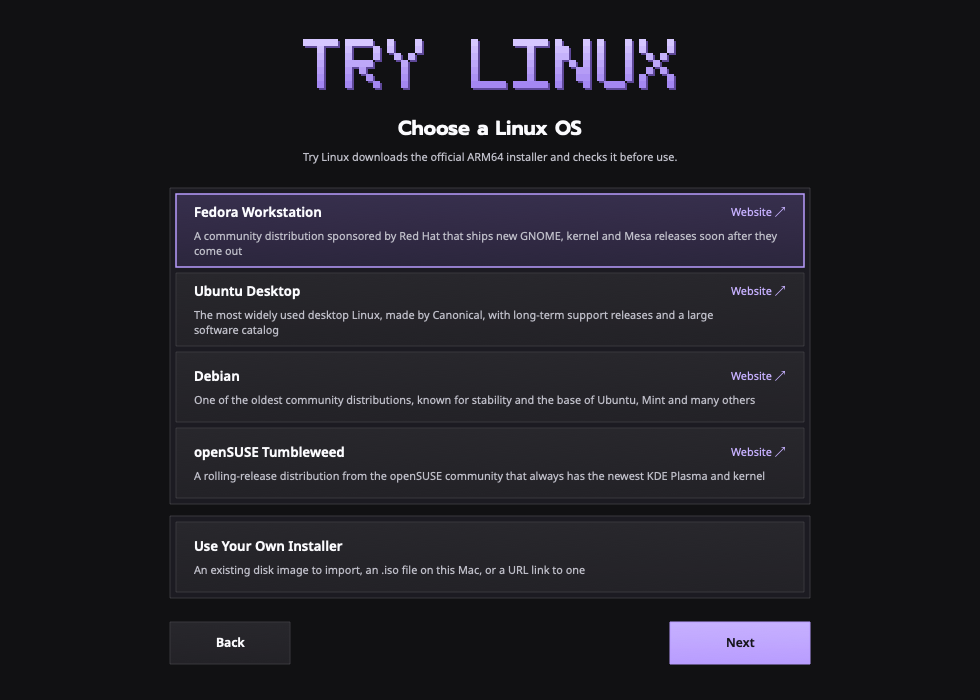
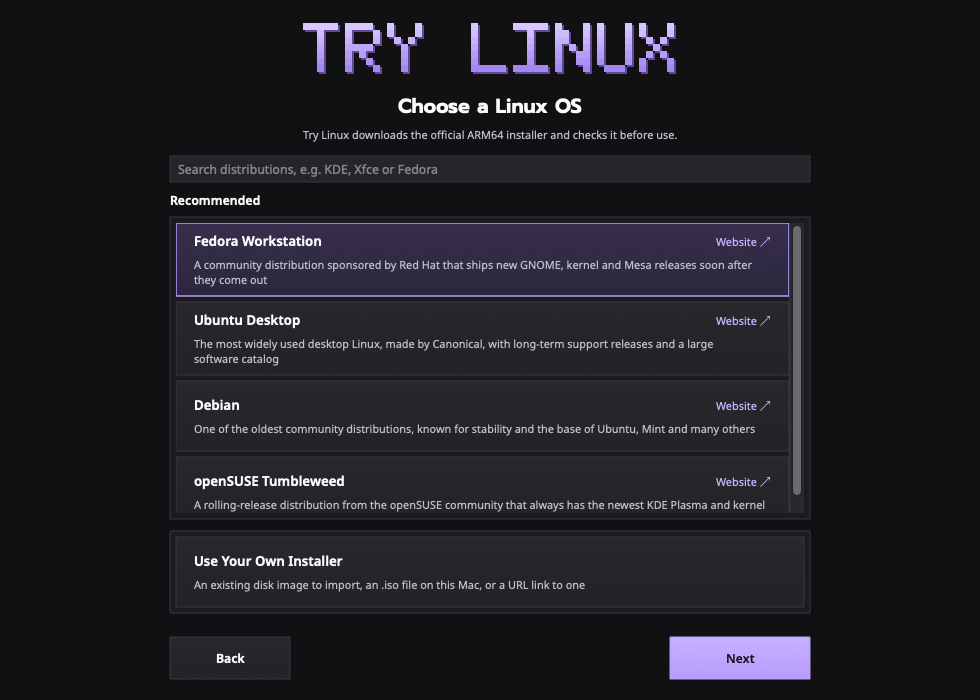
Mac README: search screenshots from the self-test

Changed region(s): [[0.1531, 0.03, 0.8265, 0.96], [0.6735, 0.84, 0.8265, 0.99]]

diff --git a/macos/README.md b/macos/README.md
@@ -35,6 +35,10 @@ you open Choose a Linux OS, so new entries appear without a new release. Each do
 checked against the distribution's official SHA-256 or SHA-512 checksum. You can also
 install from any ARM64 `.iso` file or download link.
 
+![Choose a Linux OS, searching for KDE: KDE Linux, openSUSE Tumbleweed, Fedora KDE Plasma Desktop and Fedora Kinoite, each with a Website link](docs/images/search.png)
+
+<img src="docs/images/website-only-prompt.png" alt="Download Manjaro Linux from its website? Try Linux can't fetch the Manjaro Linux ISO file itself. Open its website to download its ARM64 (aarch64) ISO, then choose it in Use Your Own Installer. Cancel and Open Website buttons" width="520">
+
 ## Screenshots
 
 ![Choose a Linux OS](docs/images/choose-os.png)
